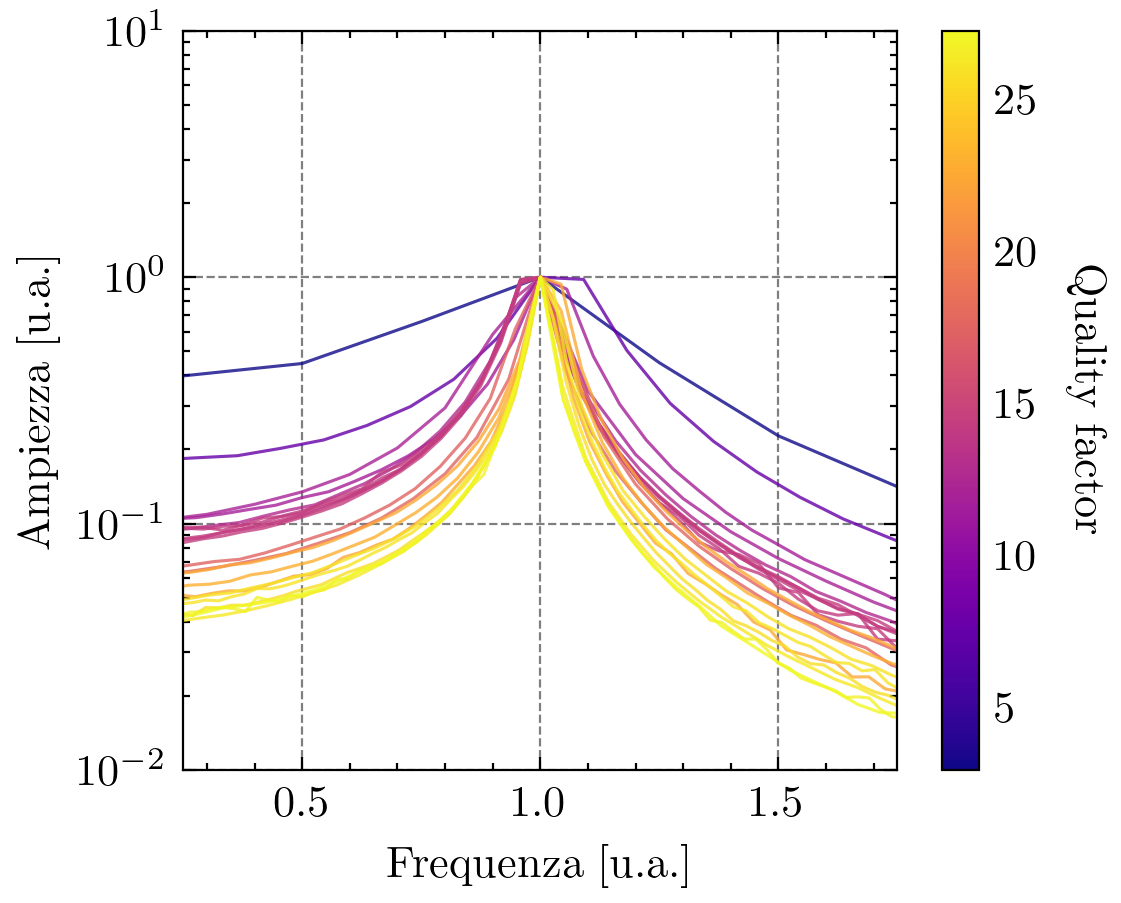
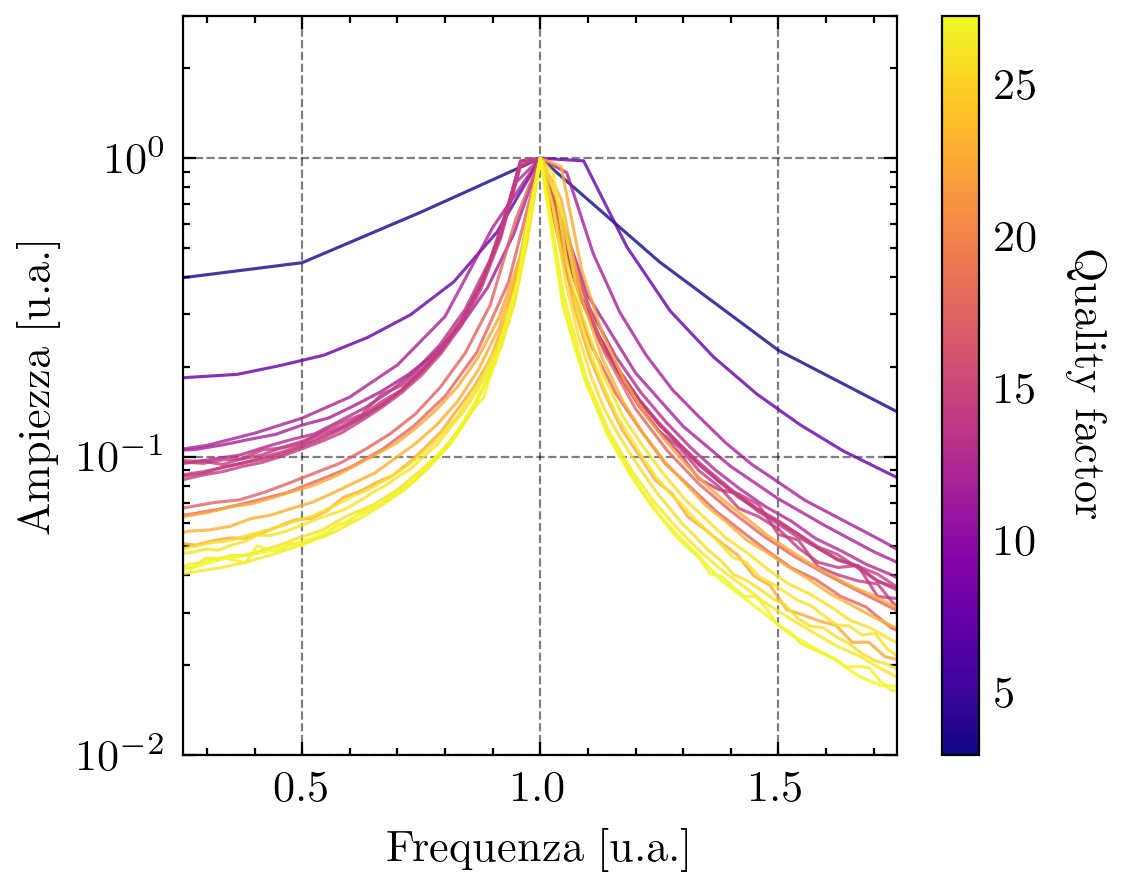
change qf plot limits

diff --git a/lab2/fast_fourier_transform/fft.py b/lab2/fast_fourier_transform/fft.py
@@ -371,7 +371,7 @@ fig = plt.figure(figsize=(3.6, 3), dpi=320)
 ax = fig.add_subplot(111)
 
 ax.set_yscale("log")
-ax.set_ylim(1e-2, 10)
+ax.set_ylim(1e-2, 3)
 ax.set_xlim(0.25,1.75)
 
 for wav in Qf_plot_wavs:
